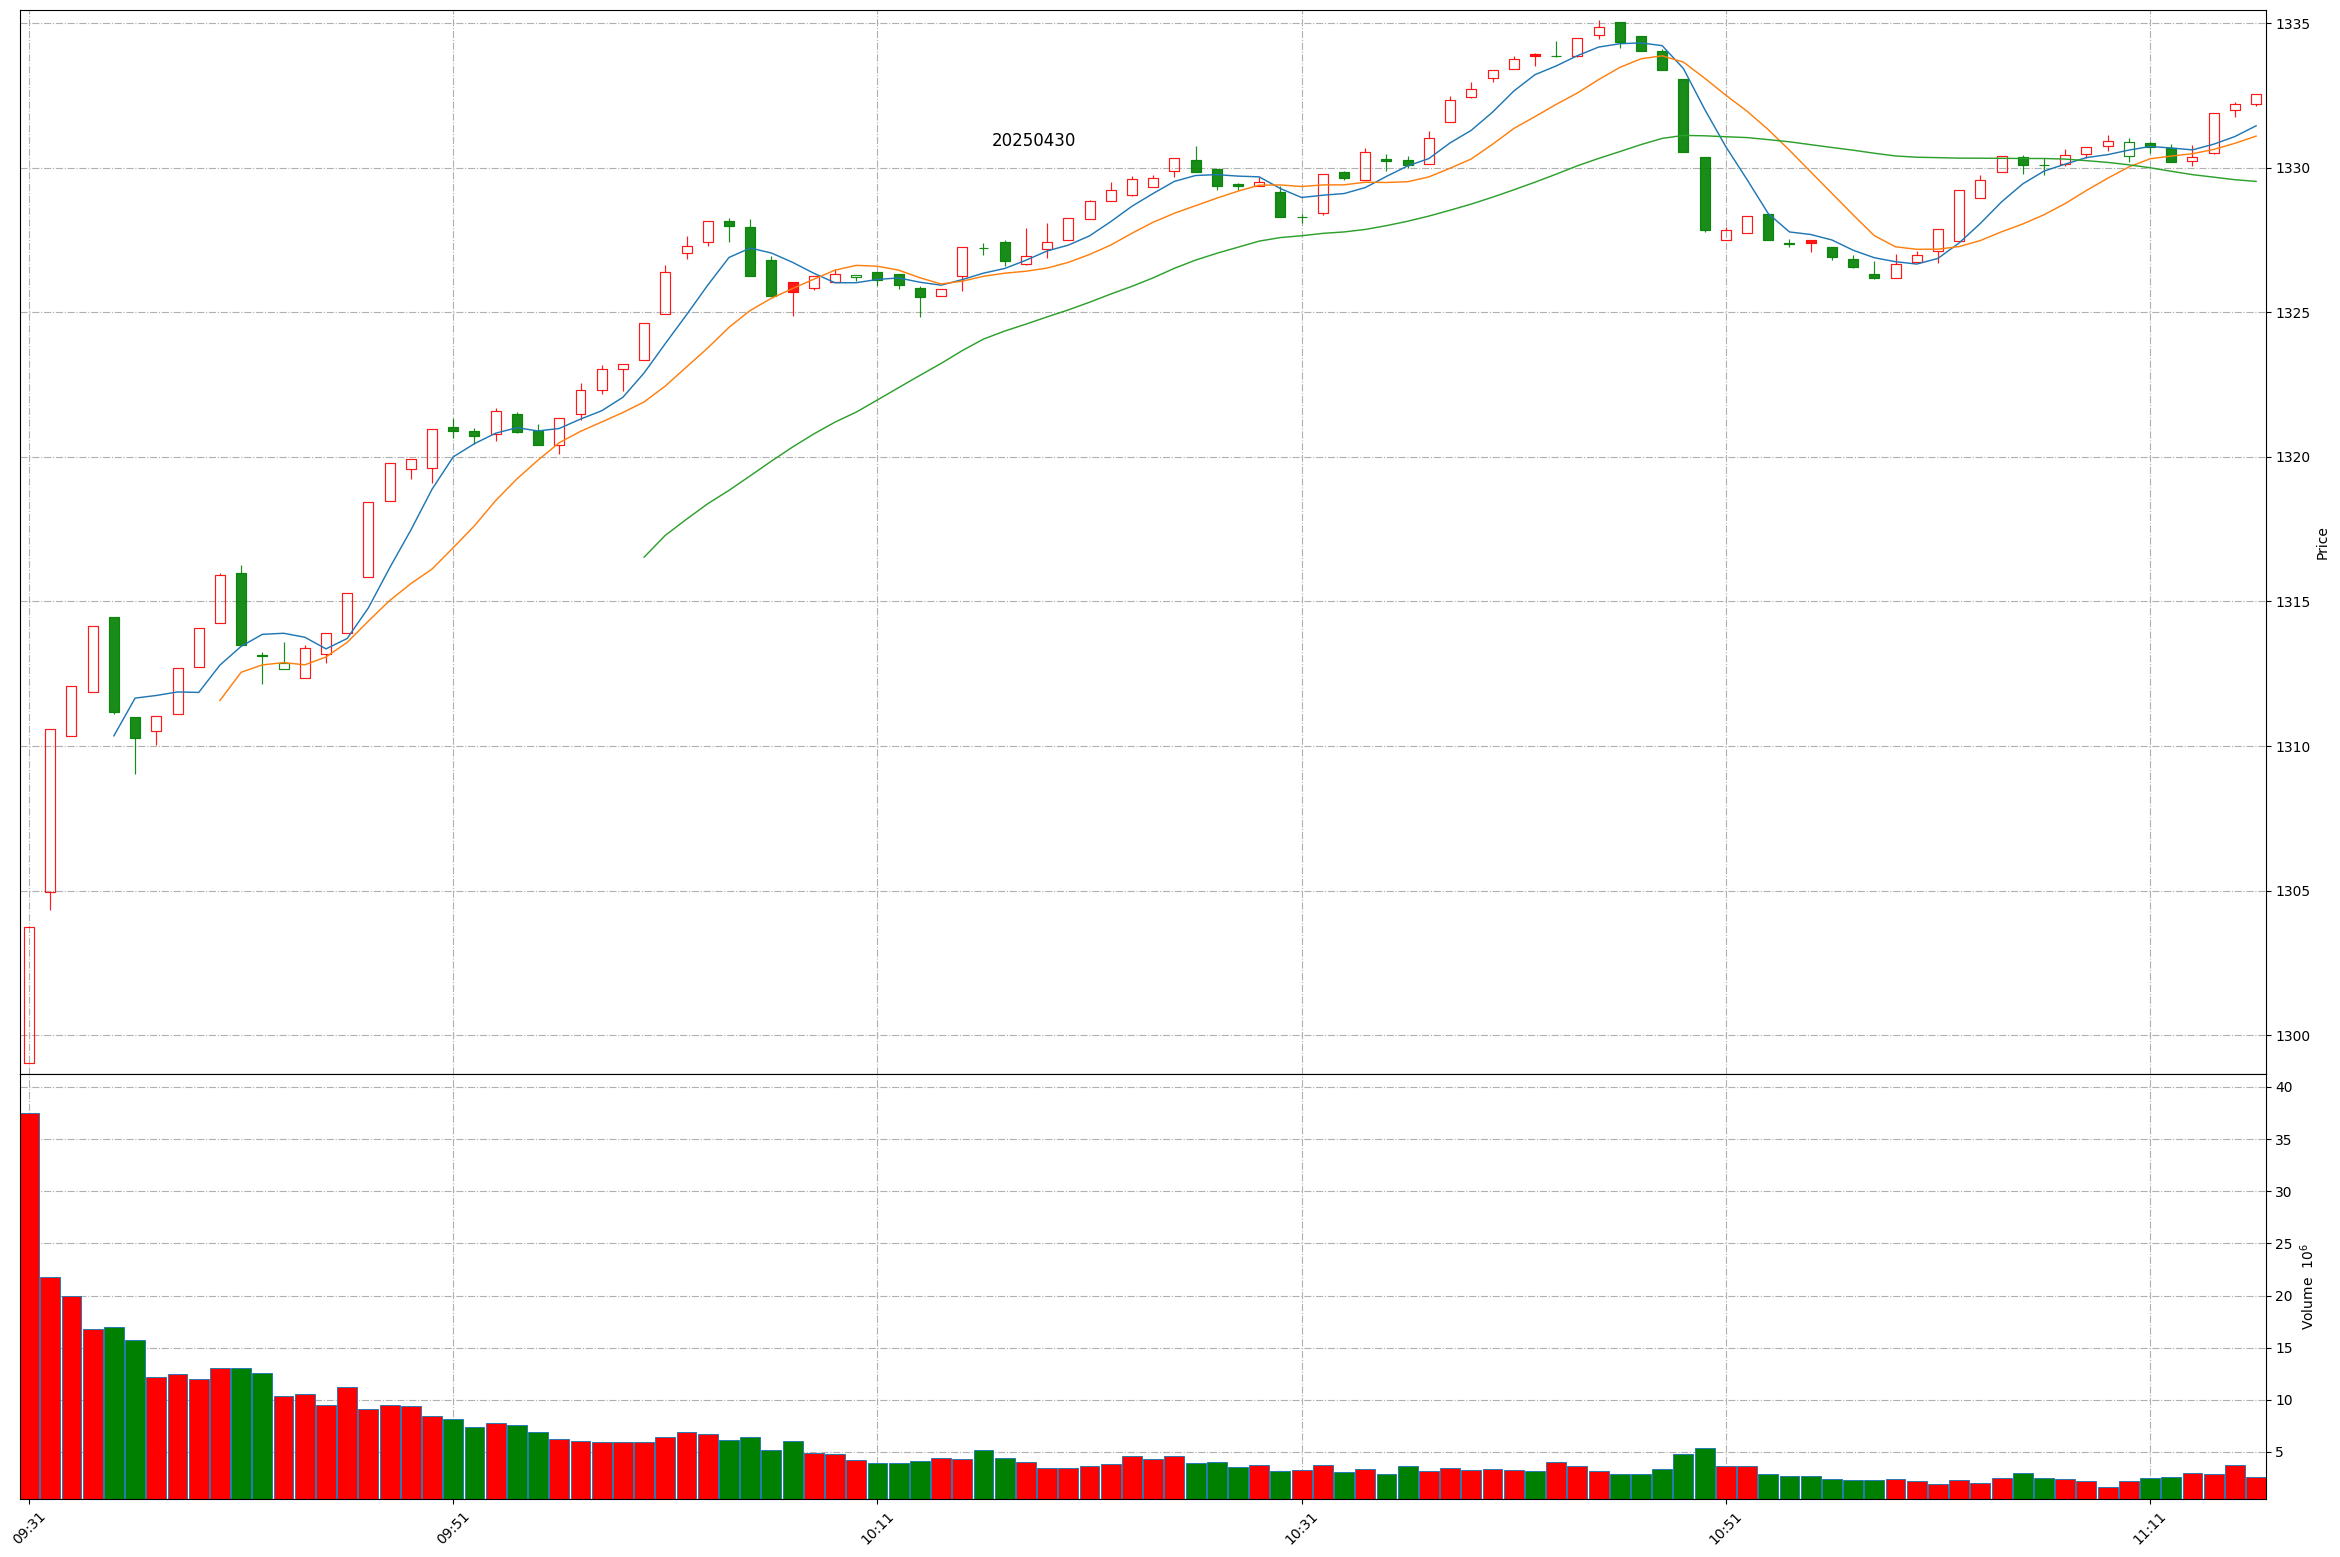
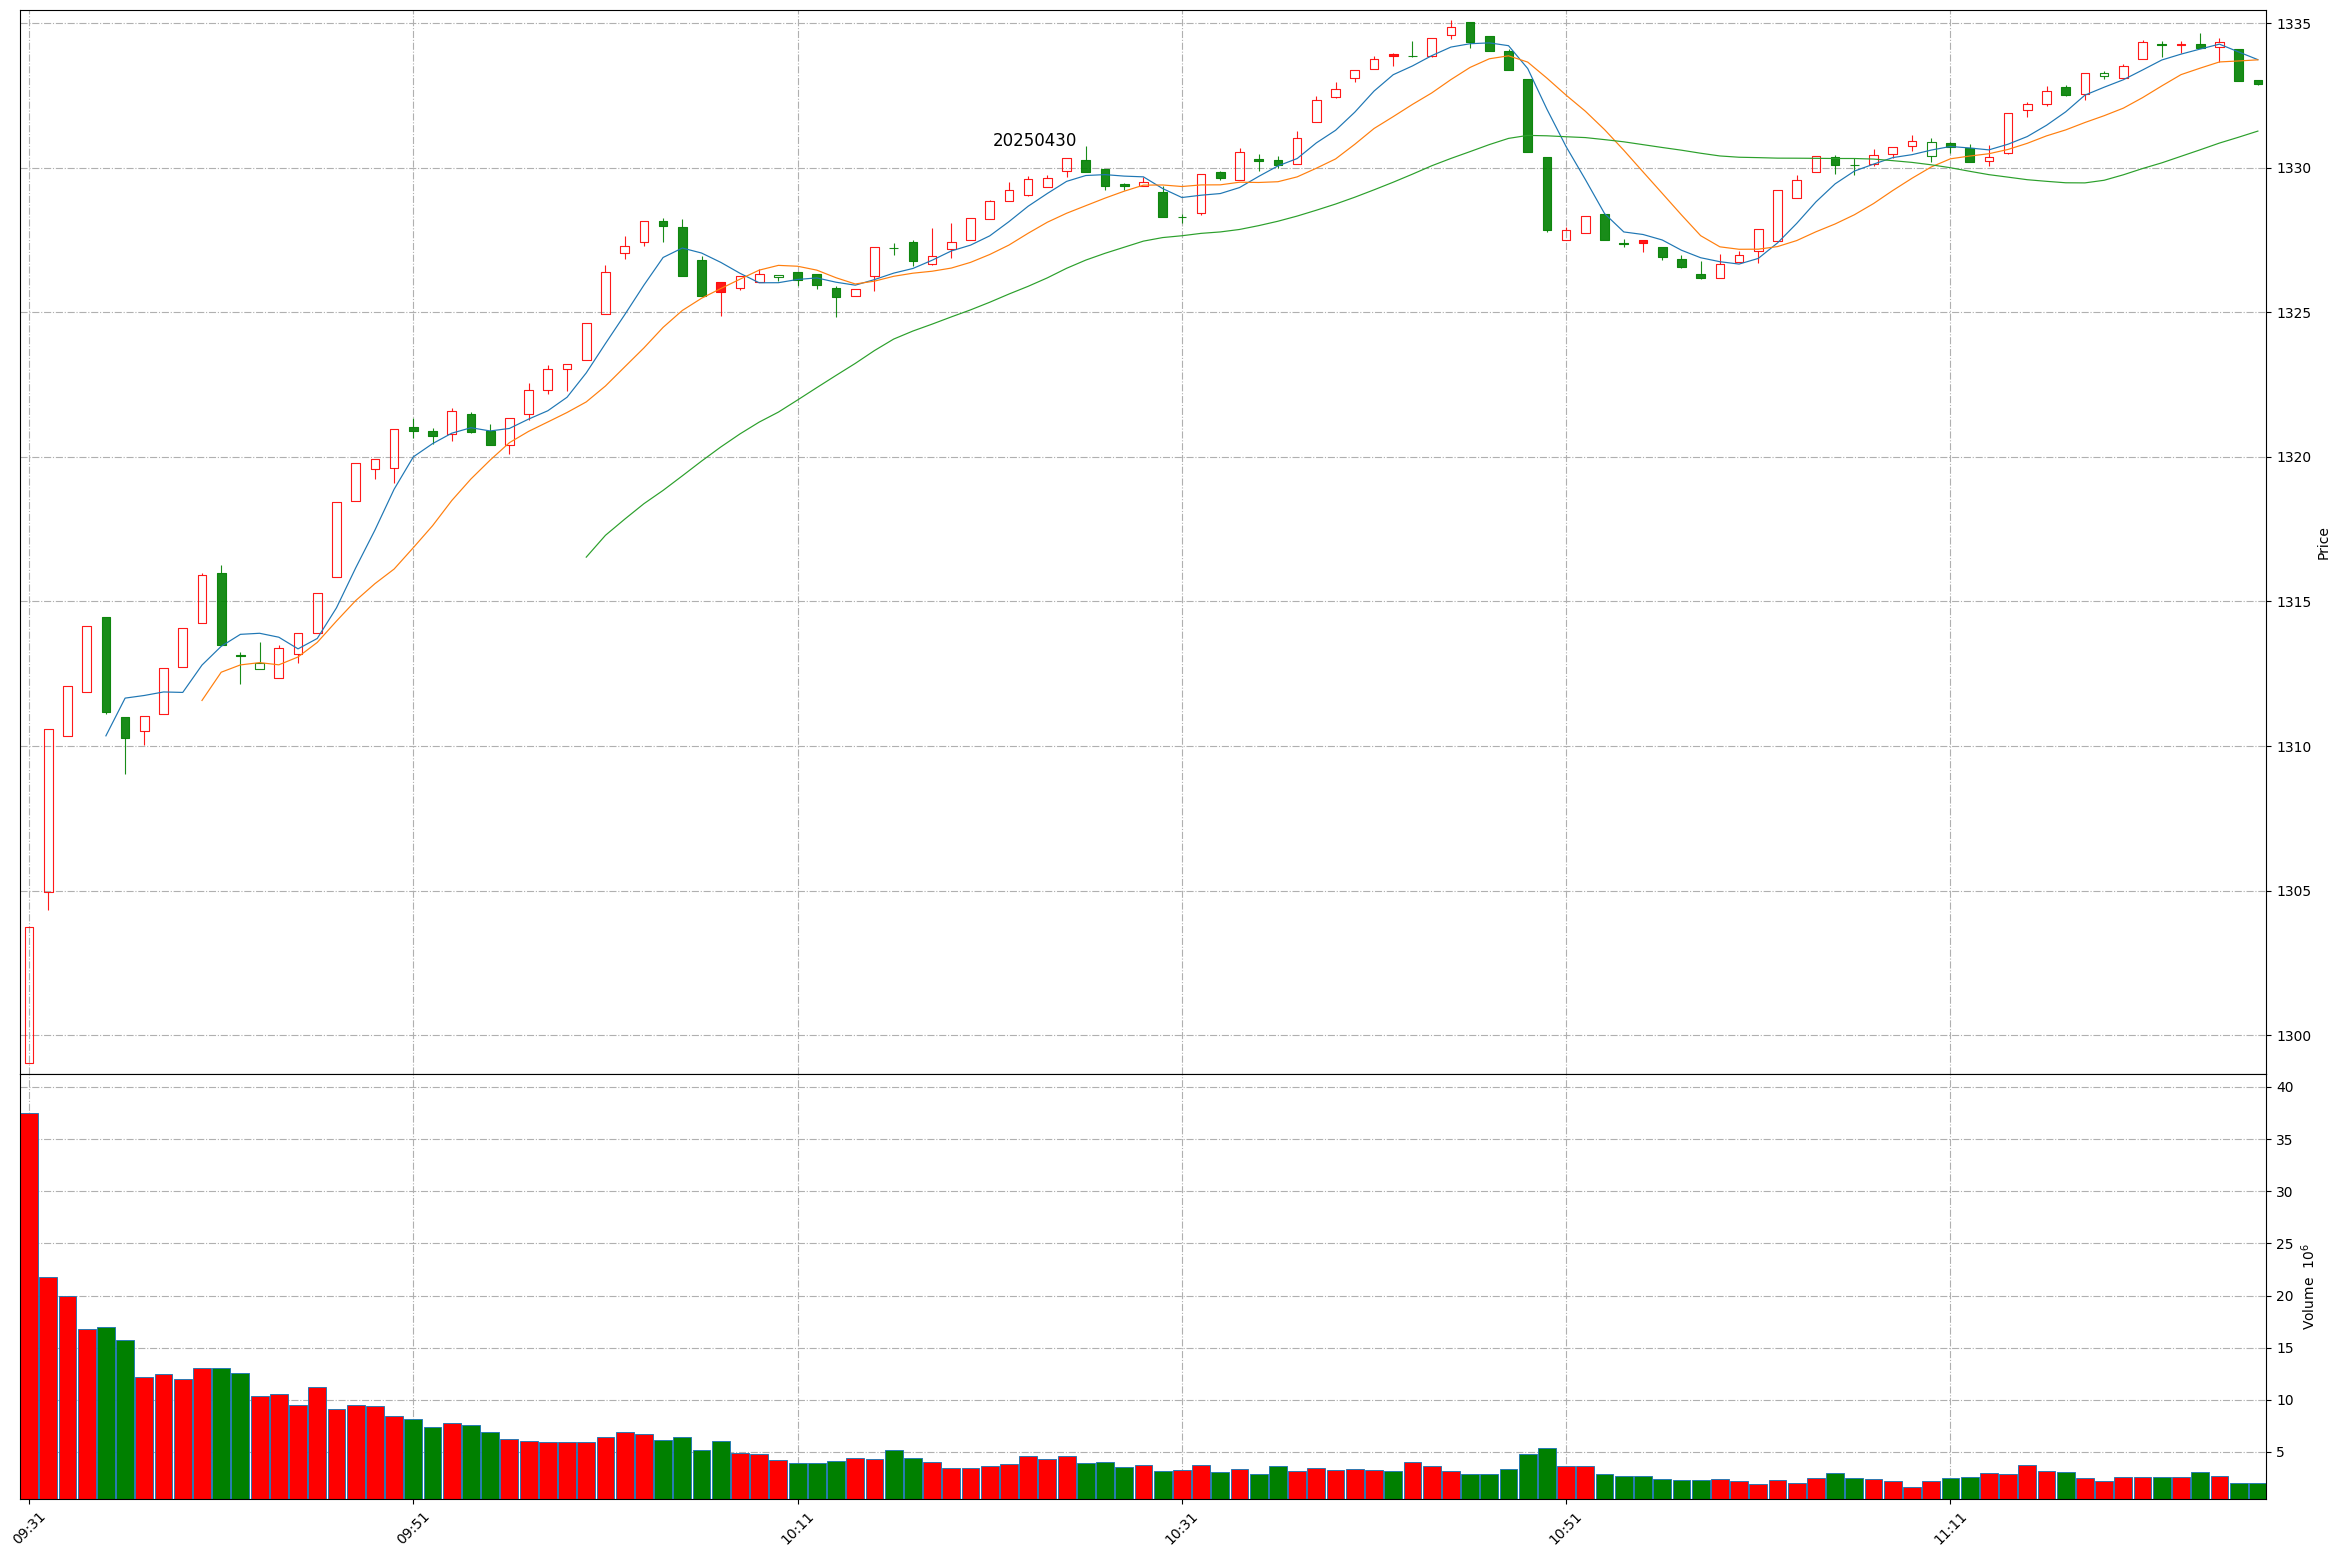
Github action update at 2025-04-30 11:26:49.

diff --git a/README.md b/README.md
@@ -1,11 +1,11 @@
 
 # Daily-A-share-market-quotes 每日 A 股指数（5min 更新）- 20250430
 
-### 上证指数 20250430 11:15
+### 上证指数 20250430 11:26
 ![](./fig/2025/4/20250430-sh000001.png)
 
-### 深证成指 20250430 11:15
+### 深证成指 20250430 11:26
 ![](./fig/2025/4/20250430-sz399001.png)
 
-### 北证50 20250430 11:15
+### 北证50 20250430 11:26
 ![](./fig/2025/4/20250430-bj899050.png)
